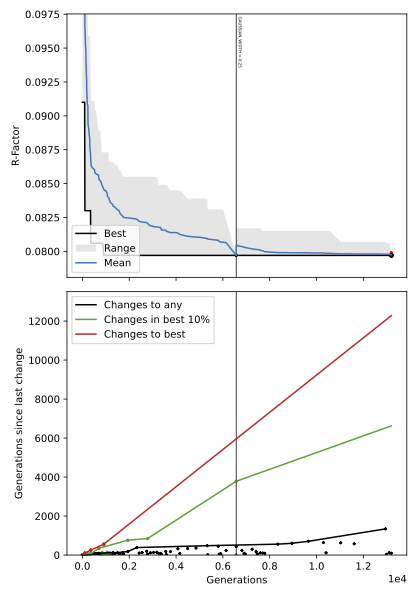
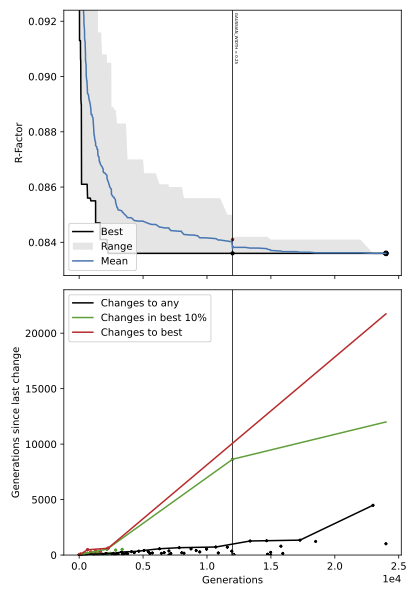
doc: update Ag(100) section

diff --git a/doc/content/basics/example_systems/Ag(100).rst b/doc/content/basics/example_systems/Ag(100).rst
@@ -80,7 +80,7 @@ As expected, ViPErLEED recognized our surface be of p4m symmetry with a simple (
 During the initialization, ViPErLEED also automatically calculated phaseshifts to be used as input for the following calculations.
 They are stored in the :ref:`PHASESHIFTS file<phaseshifts>` that was copied into the source directory.
 This format, however, is hard to interpret for a human reader.
-Instead we can look at a plotted version of the same data in the file :ref:`Phaseshifts_plots.pdf<phaseshifts_plots>` in the ``SUPP`` subdirectory.
+Instead we can look at a plotted version of the same data in the file :ref:`Phaseshifts_plots.pdf<phaseshiftplots>` in the ``SUPP`` subdirectory.
 The first page shows the energy-dependent phaseshifts for the surface atom and looks like this:
 
 .. figure:: /_static/example_systems/Ag(100)/phaseshifts_plots.png
@@ -95,9 +95,9 @@ Reference Calculation and R-factor
 In this simple case, we don't actually need any further settings to run the :ref:`reference calculation<ref-calc>`. We can just start the calculation again, after setting :ref:`RUN = 1<run>` to select the :ref:`reference calculation<ref-calc>` section.-
 
 Note, that the initialization will still be automatically excuted at the start of every ViPErLEED run.
-Similarly, if an :ref:`EXPBEAMS.csv files<expbeams>` is provided as is the case here, the :ref:`R-factor calculation<rfactor>` will be automatically calculated and reported after each reference calculation.
+Similarly, if an :ref:`EXPBEAMS.csv files<expbeams>` is provided as is the case here, the :ref:`R-factor calculation<r-factor_calculation>` will be automatically calculated and reported after each reference calculation.
 
-Once the reference calculation finishes (only takes about1 minute with the chosen settings) we find a result for the R-factor at the very end of the :ref:`log file<log_files_tleedm>`:
+Once the reference calculation finishes (only takes about 1 minute with the chosen settings) we find a result for the R-factor at the very end of the :ref:`log file<log_files_tleedm>`:
 
 .. code-block:: console
 
@@ -105,7 +105,7 @@ Once the reference calculation finishes (only takes about1 minute with the chose
    Total elapsed time: 50.78 seconds
 
    Executed segments: 0 1 11
-   Final R (refcalc): 0.1549
+   Final R (refcalc): 0.1732
 
 Additionally, in the :ref:`OUT directory<dir_organization_output>`, we find a file :ref:`THEOBEAMS.csv<theobeams>` which contains the calculated theoretical :math:`I(V)` curves and a file :ref:`Rfactor_plots_refcalc.pdf<rfactorplots>` in which the experimental and theoretical beams are plotted.
 The latter should look something like this:
@@ -117,8 +117,8 @@ The latter should look something like this:
    Rfactor_plots_refcalc.pdf
 
 
-The :math:`I(V)` curves clearly show a good qualitative agreement, but the R-factor of :math:`R \approx 0.15` is not great for such a simple system!
-We therefore proceed to the :ref:`delta-amplitudes<sec-deltas>` calculation and the :ref:`structure search<sec-search>`.
+The :math:`I(V)` curves clearly show a good qualitative agreement, but the R-factor of :math:`R \approx 0.17` is not great for such a simple system!
+We therefore proceed to the :ref:`delta-amplitudes<sec_deltas>` calculation and the :ref:`structure search<sec_search>`.
 
 .. note:: 
    The :ref:`reference calculation<ref-calc>` also produces the :ref:`tensor files<tensorszip>` which are saved in the ``Tensors`` directory.
@@ -127,8 +127,8 @@ We therefore proceed to the :ref:`delta-amplitudes<sec-deltas>` calculation and 
 Delta-Amplitudes and Structure Search
 =====================================
 
-To improve our R-factor, we can run a local structure-optimization using the :ref:`tensor LEED approach<tensorleed>`.
-To do this in ViPErLEED, we run a :ref:`delta-amplitude<sec-deltas>` calculation followed by a :ref:`structure search<sec-search>`.
+To improve our R-factor, we can run a local structure-optimization using the :ref:`tensor LEED approach<tensor_leed>`.
+To do this in ViPErLEED, we run a :ref:`delta-amplitude<sec_deltas>` calculation followed by a :ref:`structure search<sec_search>`.
 
 First, however, we need to provide instructions about which parameters to vary in the optimization.
 In ViPErLEED, we give this information in the :ref:`DISPLACEMENTS file<displacements>`:
@@ -143,7 +143,7 @@ Here, we allow the :math:`z` positions of all silver atoms in the first 4 layers
 
 After setting up the :ref:`DISPLACEMENTS file<displacements>`, we can now run the delta-amplitudes calculation and structure-optimization back-to-back by setting :ref:`RUN = 2-3<run>` in :ref:`PARAMETERS<parameters>`.
 For a large system, this step can take many hours to finish, but for our simple system it only takes about 4 minutes to converge (using 10 CPU cores).
-At the end, when we take another look at our :ref:`log file<log_files_tleedm>`, we already see that the R-factor dropped significantly from :math:`R \approx 0.17` to :math:`R \approx 0.08`.
+At the end, when we take another look at our :ref:`log file<log_files_tleedm>`, we already see that the R-factor dropped significantly from :math:`R \approx 0.17` to :math:`R \approx 0.095`.
 That's not bad, but we can do a bit better yet.
 
 Now that we found a better configuration, we can use the :ref:`bookkeeper utility<bookkeeper>` with the ``--cont`` flag to keep the new configuration and use it as our new starting point, overwriting the old POSCAR and VIBROCC files:
@@ -166,9 +166,9 @@ This may not seem like much, but this already gives :math:`11^5` grid points (11
 .. important::
    Because we changed our reference structure, it is advisable to re-run starting with the reference calculation by setting :ref:`RUN = 1-3 1<run>`.
    Note, we also add a second reference calculation at the end.
-   This will remove errors due to the :ref:`tensor LEED approximation` from the final result.
+   This will remove errors due to the :ref:`tensor LEED approximation<tensor_leed>` from the final result.
 
-Once finished, we get a R-factor of :math:`R \approx 0.0735`!
+Once finished, we get a R-factor of :math:`R = 0.0836`!
 To visualize how our optimization went, we can also take a look at the  :ref:`Search-progress.pdf file<searchprogresspdf>` in the ``OUT`` directory:
 
 .. figure:: /_static/example_systems/Ag(100)/search_convergence_plot.png
